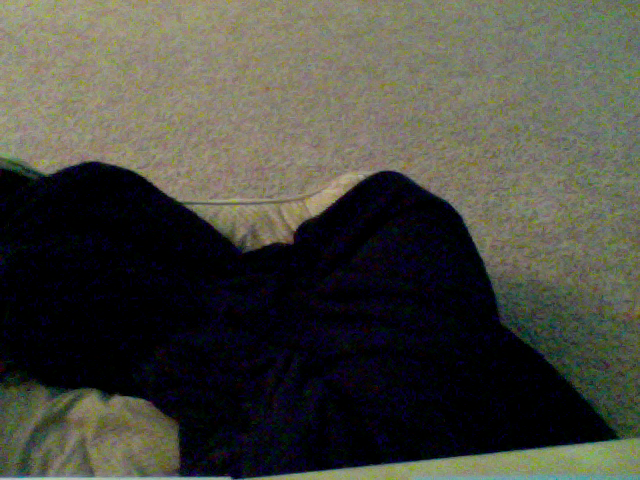
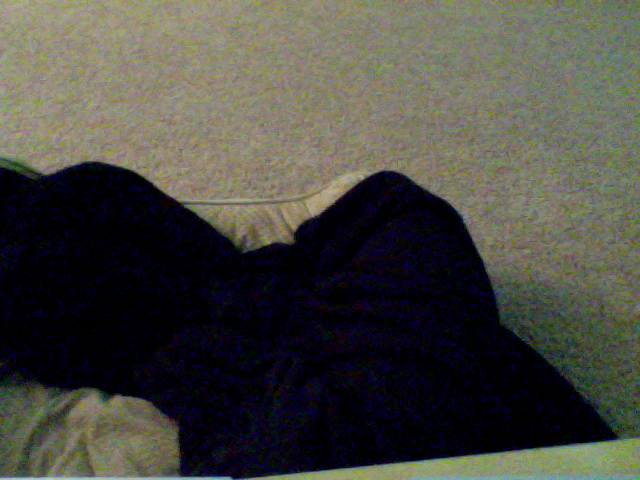
update at Month05Day07Time18:56

diff --git a/index.html b/index.html
@@ -40,7 +40,7 @@
       <div class="row">
         <div class="col-md-4">
 	<p>This picture was updated at Month05Day07Time18:56</p>
-		<img src="8_pic.png" />
+		<img src="4_pic.png" />
         </div>
       </div>
 
